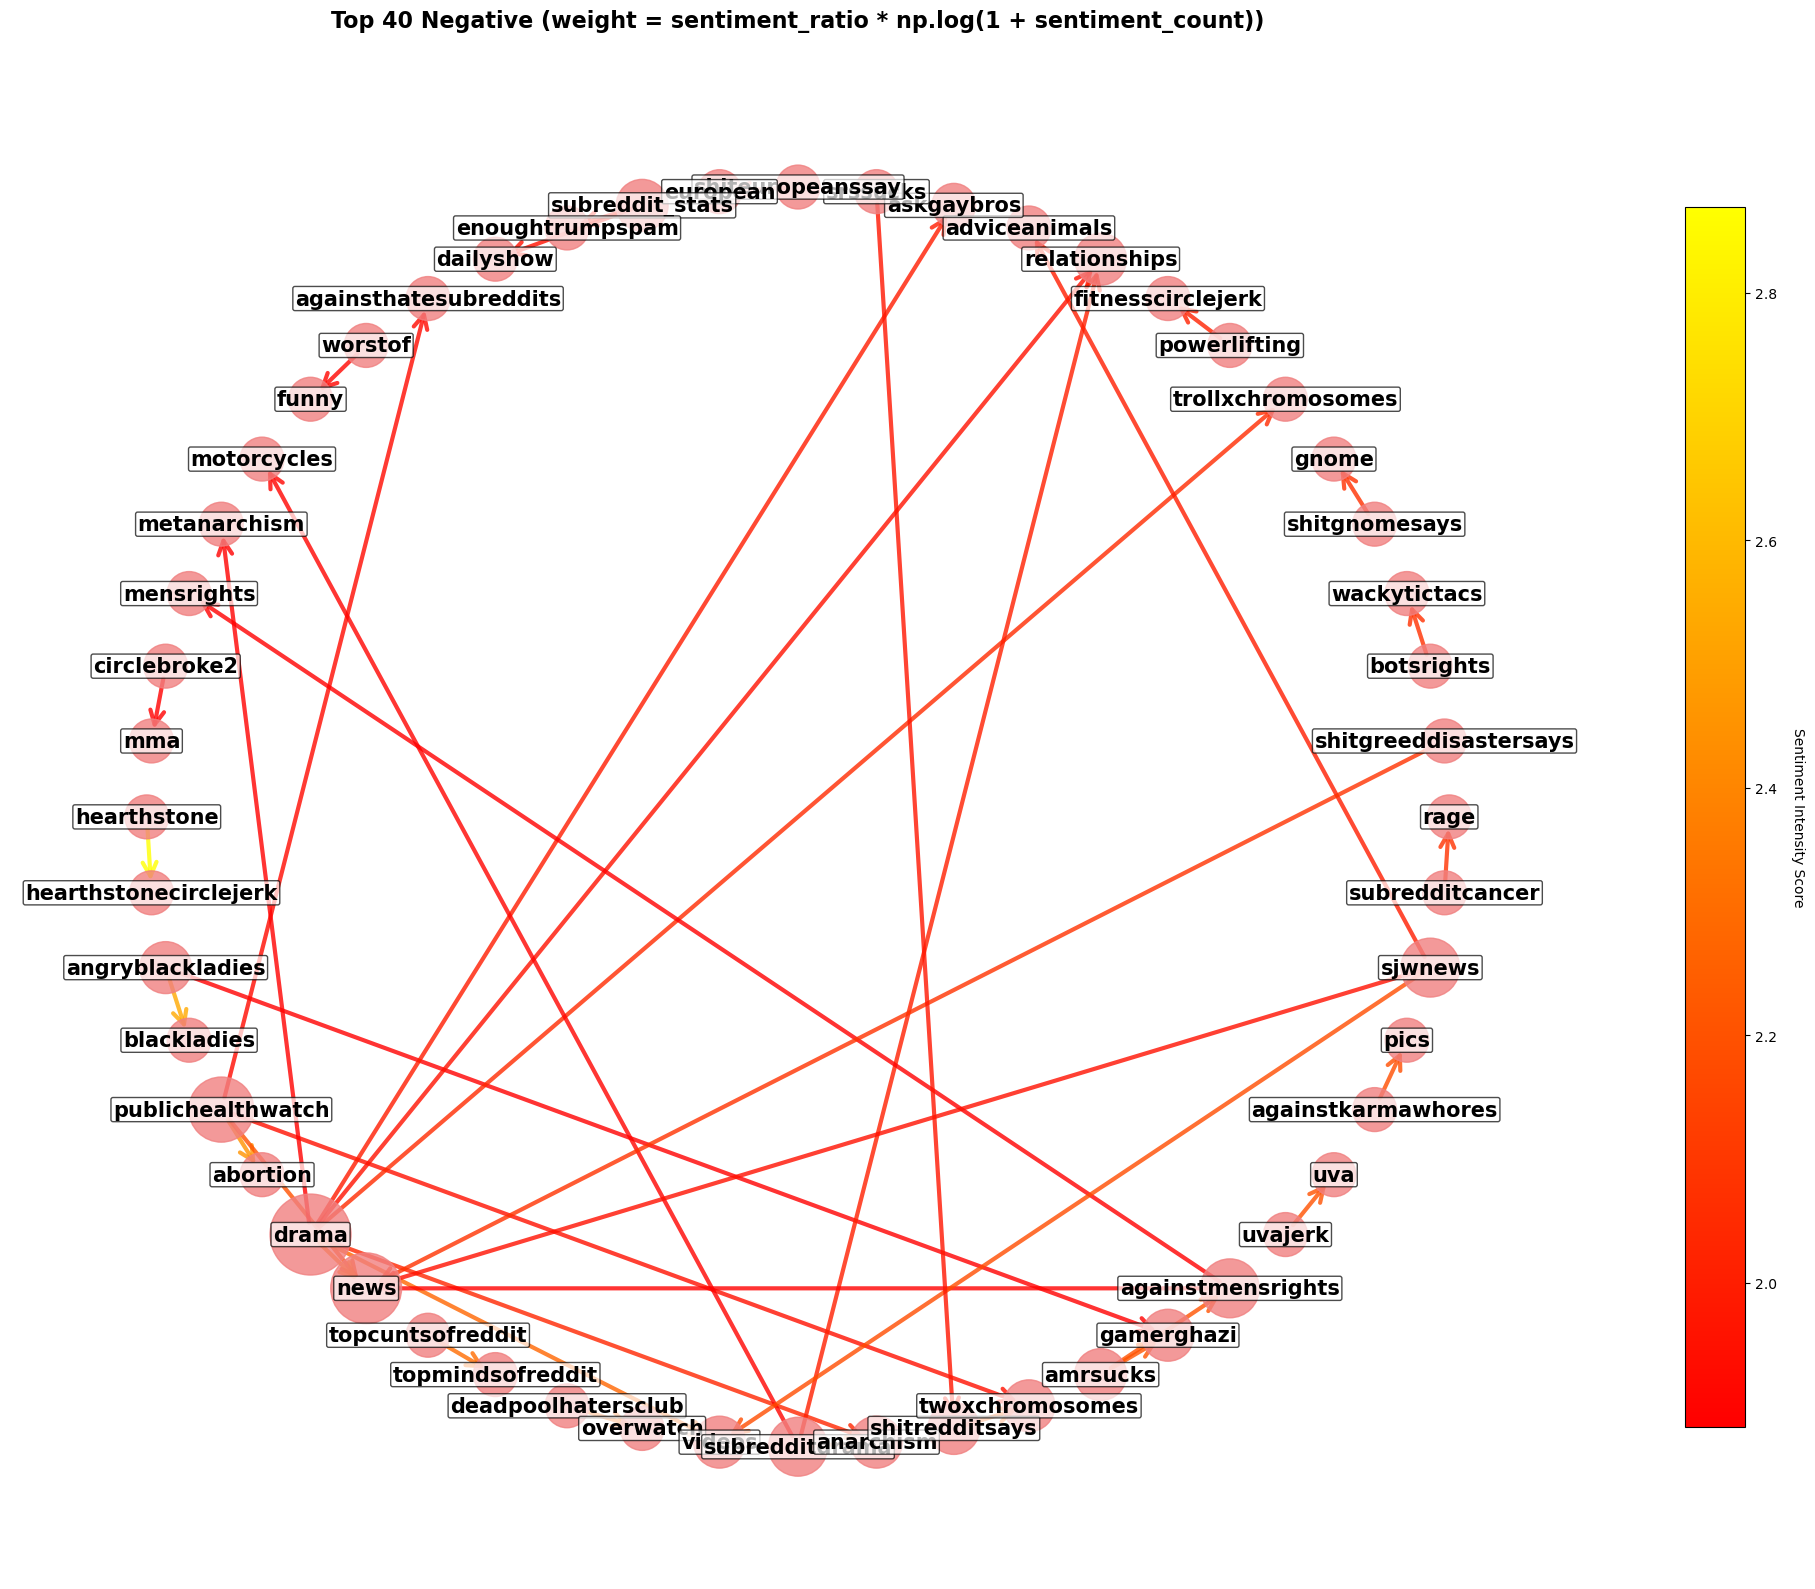
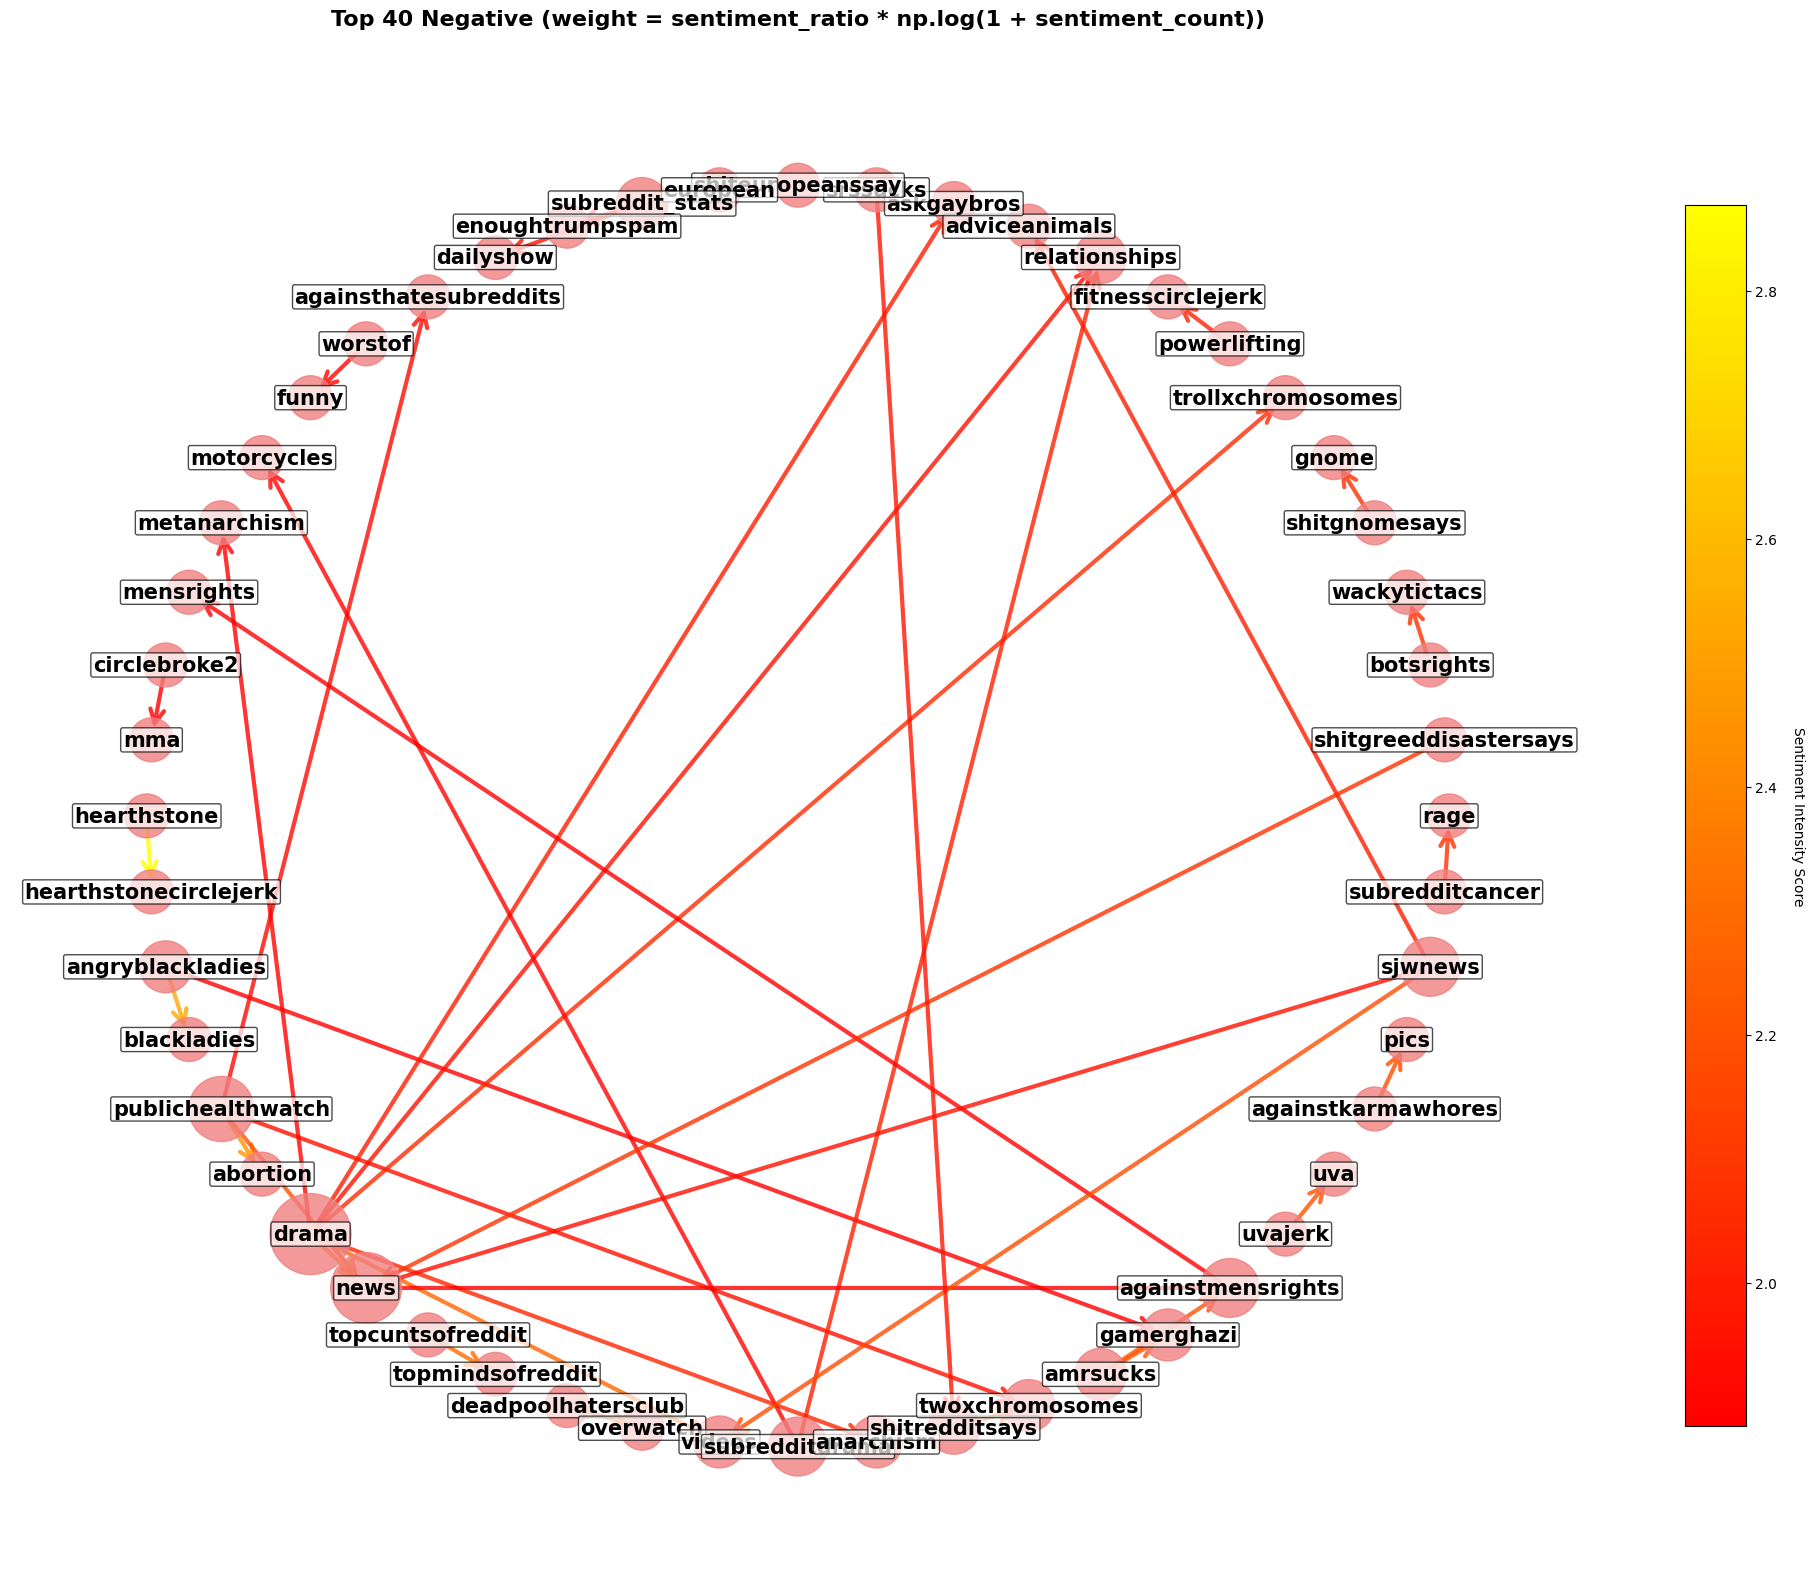
Bugfixes, README.md updates

diff --git a/src/analysis/init_analysis.py b/src/analysis/init_analysis.py
@@ -93,6 +93,7 @@ def plot_degree_distribution(G, save_path=None, show=False):
     if show:
         plt.show()
     else:
+        os.makedirs(os.path.dirname(save_path), exist_ok=True)
         plt.savefig(save_path)
         plt.close()
 
@@ -157,6 +158,7 @@ def plot_sentiment_analysis(G, save_path=None, show=False):
     if show:
         plt.show()
     else:
+        os.makedirs(os.path.dirname(save_path), exist_ok=True)
         plt.savefig(save_path)
         plt.close()
 
@@ -254,6 +256,7 @@ def plot_temporal_analysis(G, save_path=None, show=False):
     if show:
         plt.show()
     else:
+        os.makedirs(os.path.dirname(save_path), exist_ok=True)
         plt.savefig(save_path)
         plt.close()
 
@@ -394,6 +397,7 @@ def plot_property_vector_analysis(G, save_path=None, show=False):
     if show:
         plt.show()
     else:
+        os.makedirs(os.path.dirname(save_path), exist_ok=True)
         plt.savefig(save_path)
         plt.close()
 

diff --git a/src/data/preprocess_graph.py b/src/data/preprocess_graph.py
@@ -5,6 +5,9 @@ import os
 from tqdm import tqdm
 
 
+DATA_DIR = os.path.join(os.path.dirname(__file__), '..', '..', 'data')
+
+
 def preprocess_reddit_graph(load_type='body', body_tsv_file='soc-redditHyperlinks-body.tsv', 
                      title_tsv_file='soc-redditHyperlinks-title.tsv', force_reload=False):
     """
@@ -29,9 +32,9 @@ def preprocess_reddit_graph(load_type='body', body_tsv_file='soc-redditHyperlink
     networkx.MultiDiGraph
         Directed multigraph where nodes are subreddits and edges are posts
     """
-    
-    data_folder = '../../data'
-    
+
+    data_folder = DATA_DIR
+
     if load_type == 'body':
         tsv_file = os.path.join(data_folder, body_tsv_file)
         pickle_file = os.path.join(data_folder, 'reddit_graph_body.pkl')

diff --git a/README.md b/README.md
@@ -1,21 +1,16 @@
 
-# Your project name
+# Project Temp: Navigating the difficult landscapes of Reddit
 This is a template repo for your project to help you organise and document your code better. 
 Please use this structure for your project and document the installation, usage and structure as below.
 
 ## Quickstart
 
+First you have to export `PYTHONPATH` environment variable for the relative imports to work
 ```bash
-# clone project
-git clone <project link>
-cd <project repo>
+export $PYTHONPATH=$(pwd)
+```
 
-# [OPTIONAL] create conda environment
-conda create -n <env_name> python=3.11 or ...
-conda activate <env_name>
-
-
-# install requirements
+```bash
 pip install -r pip_requirements.txt
 ```
 
